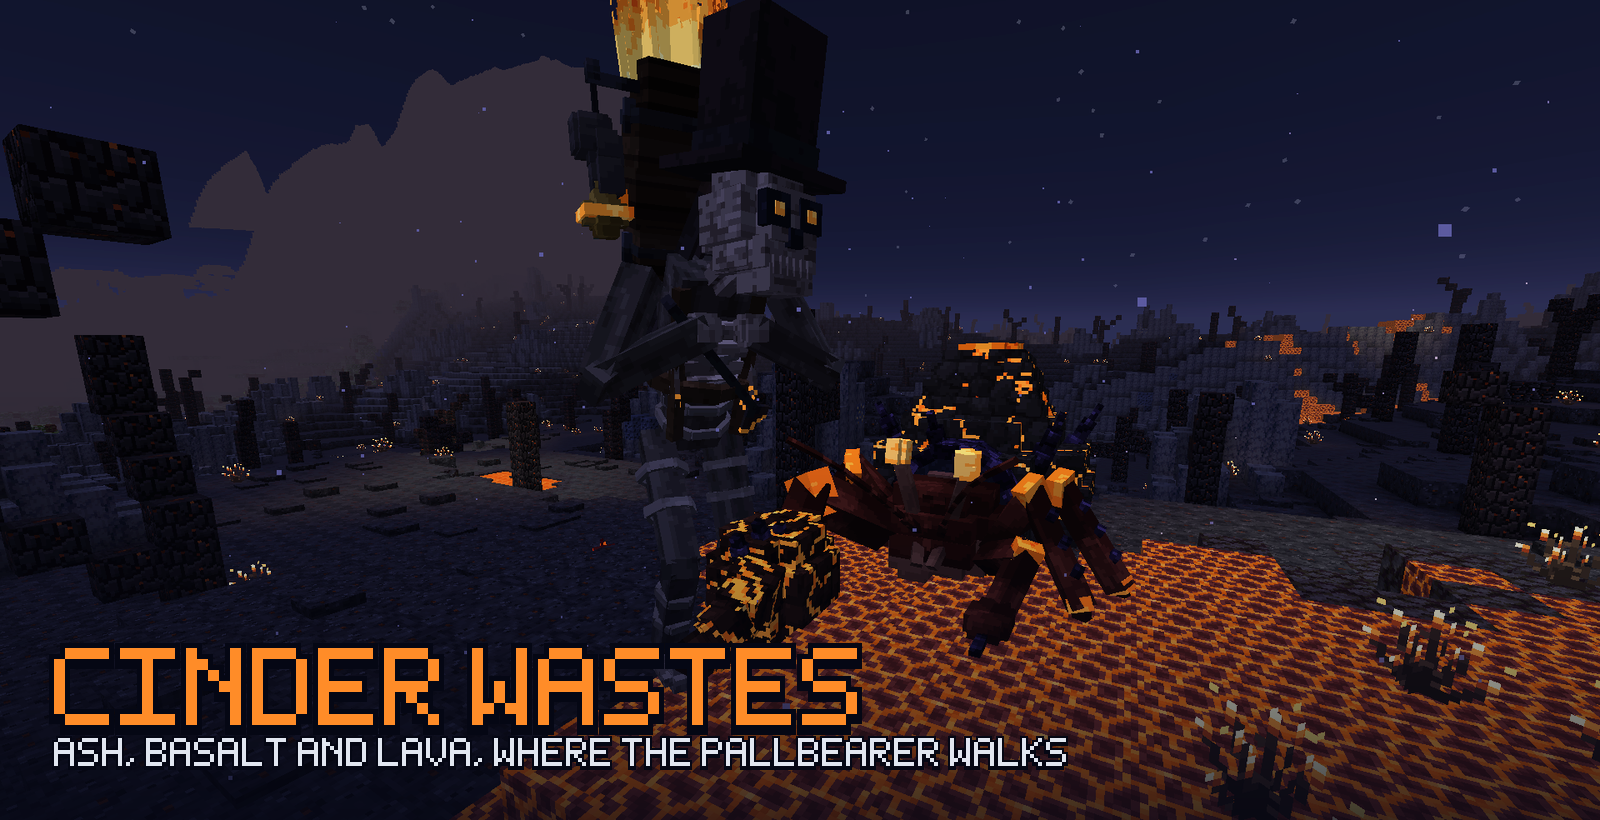
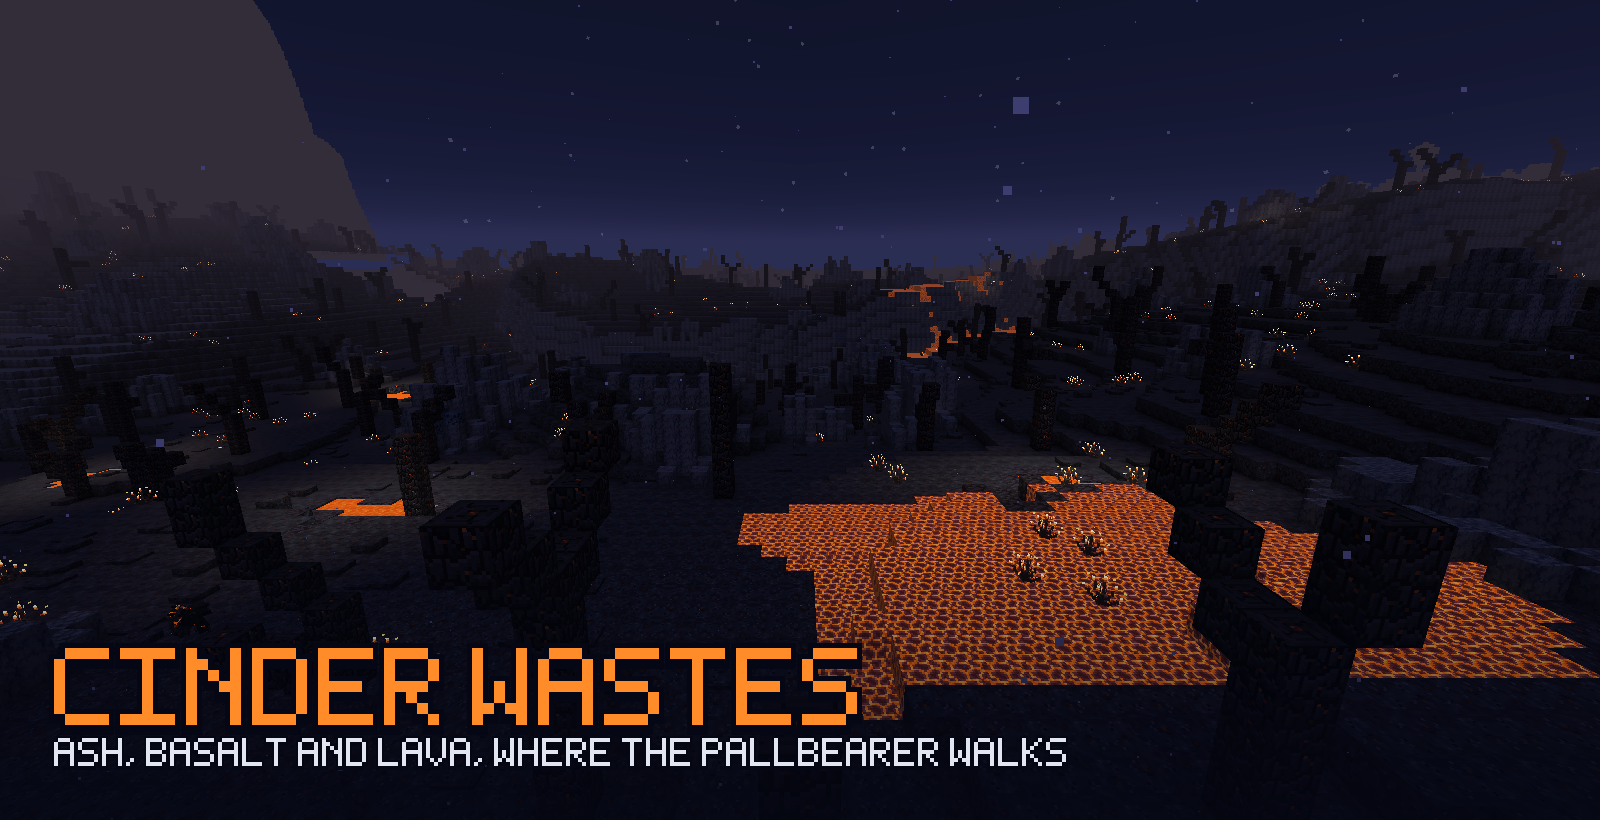
CurseForge biome pictures retaken: natural views across the land, creatures only few and far off

diff --git a/tools/icon/draw_biome_cards.py b/tools/icon/draw_biome_cards.py
@@ -1,6 +1,8 @@
 """
 Draws the biome pictures for the mod's CurseForge page (into curseforge/), one per Dross biome: an in-game screenshot
-of the biome with a few of its mobs (taken by a temporary photo booth, tools/photo_booth/), cropped to the boss cards'
+of the biome, its creatures only far off and few (the user, November 2: "natural, don't clump them together ... maybe
+you see a group of Rimehorns or a moose in the background, but you don't have to see everything"; taken by a temporary
+photo booth, tools/photo_booth/, from over the land looking across it), cropped to the boss cards'
 size, darkened towards its foot, with the biome's name in the page's blocky letters in its own colour and a line about
 it under the name.
 
@@ -8,7 +10,7 @@ it under the name.
 
     python tools/icon/draw_biome_cards.py <screenshots folder>
 
-The screenshots are named tour_<biome>_<shot>.png (SHOTS picks which one each card uses). The letters and the outline
+The screenshots are named tour2_<biome>_<shot>.png (BIOMES picks which one each card uses). The letters and the outline
 come from draw_page_art.py. Needs Pillow and numpy.
 """
 import importlib.util
@@ -32,16 +34,16 @@ art.GLYPHS.setdefault("'", ["#", "#", ".", ".", ".", ".", "."])
 # Each biome: its card's title, the screenshot it uses, the line under the title, the title's colour, and where the
 # card is cut from the screenshot top to bottom (0 its top, 0.5 its middle, 1 its foot).
 BIOMES = [
-    ("silverwood_forest", "SILVERWOOD FOREST", "1_close", "DARK SILVERWOOD TREES HUNG WITH GLOWING STORMVINE",
+    ("silverwood_forest", "SILVERWOOD FOREST", "0_090", "DARK SILVERWOOD TREES HUNG WITH GLOWING STORMVINE",
      (127, 168, 255), 0.5),
-    ("cinder_wastes", "CINDER WASTES", "a_close", "ASH, BASALT AND LAVA, WHERE THE PALLBEARER WALKS",
-     (255, 140, 40), 0.0),
-    ("blightwood", "BLIGHTWOOD", "3_high", "A ROTTING FOREST OVER THE RAT KING'S SEWERS",
+    ("cinder_wastes", "CINDER WASTES", "0_180", "ASH, BASALT AND LAVA, WHERE THE PALLBEARER WALKS",
+     (255, 140, 40), 0.5),
+    ("blightwood", "BLIGHTWOOD", "0h_135", "A ROTTING FOREST OVER THE RAT KING'S SEWERS",
      (150, 220, 70), 0.5),
-    ("rimefall", "RIMEFALL", "3_high", "FROZEN LAKES, RIMEHORN HERDS AND THE FROSTFOLK",
+    ("rimefall", "RIMEFALL", "0_180", "FROZEN LAKES, RIMEHORN HERDS AND THE FROSTFOLK",
      (190, 230, 255), 0.5),
-    ("gravecrags", "THE GRAVECRAGS", "d_round0", "SNOWY PEAKS HIGH OVER THE DROSS",
-     (205, 205, 215), 0.0),
+    ("gravecrags", "THE GRAVECRAGS", "0h_090", "SNOWY PEAKS HIGH OVER THE DROSS",
+     (205, 205, 215), 1.0),
 ]
 TITLE_PIXEL = 11          # one pixel of the title's letters, in image pixels
 LINE_PIXEL = 4            # ...of the line under it
@@ -93,7 +95,7 @@ def main(argv):
         raise SystemExit("usage: python tools/icon/draw_biome_cards.py <screenshots folder>")
     shots = Path(argv[1])
     for biome, title, which, line, colour, anchor in BIOMES:
-        path = shots / f"tour_{biome}_{which}.png"
+        path = shots / f"tour2_{biome}_{which}.png"
         card = biome_card(Image.open(path), title, line, colour, anchor)
         out = art.OUT / f"biome_{biome}.png"
         card.convert("RGB").save(out)
